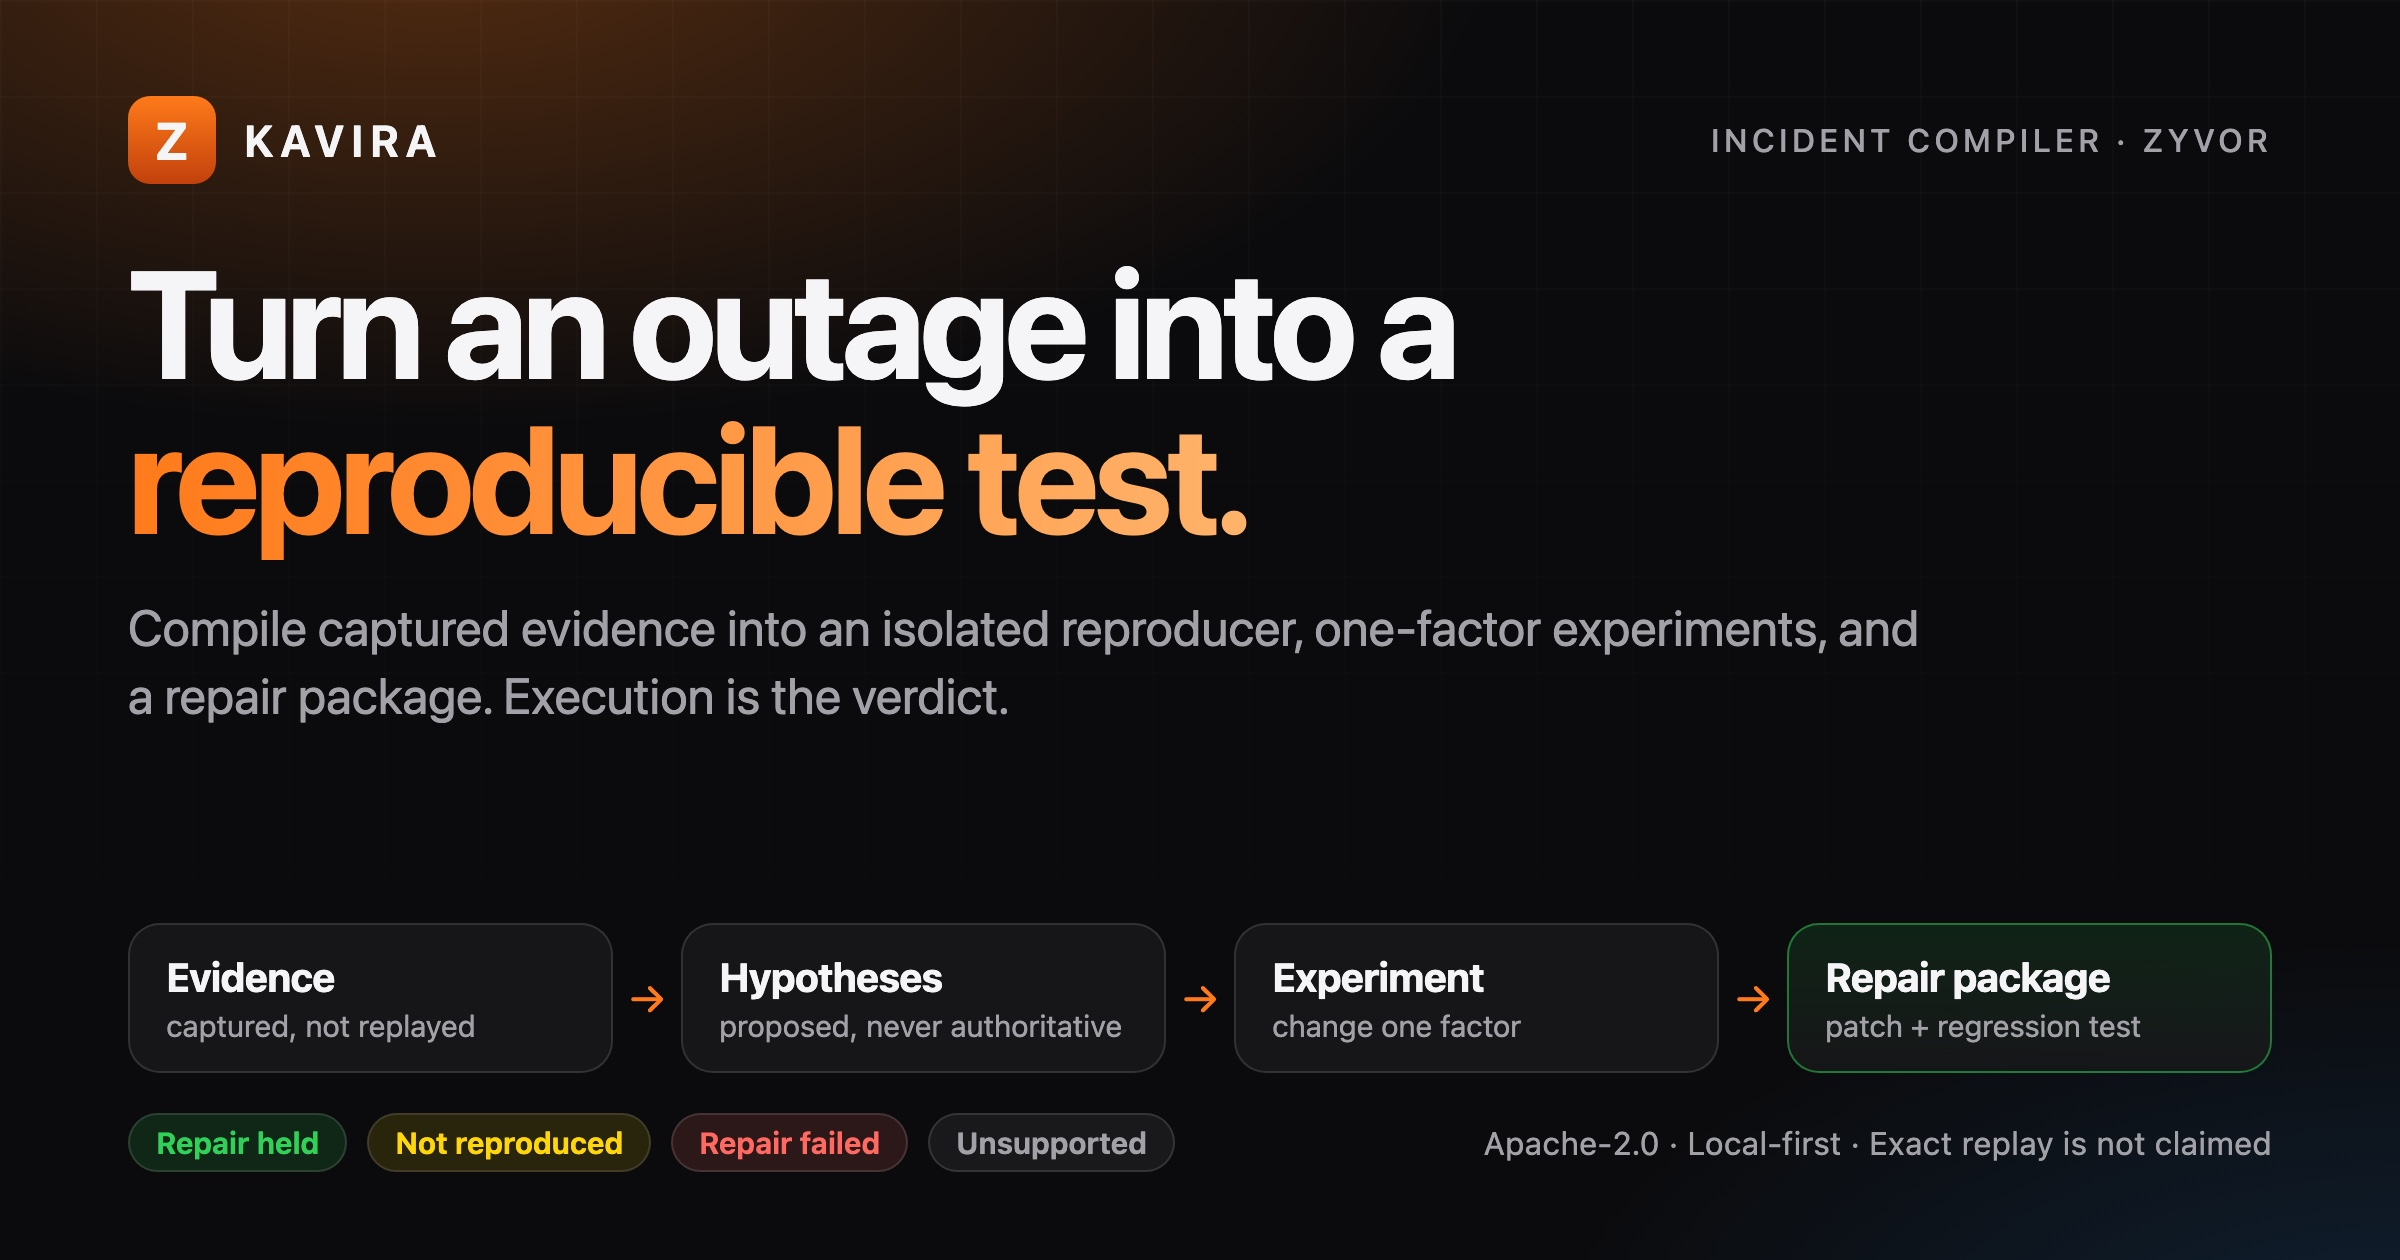
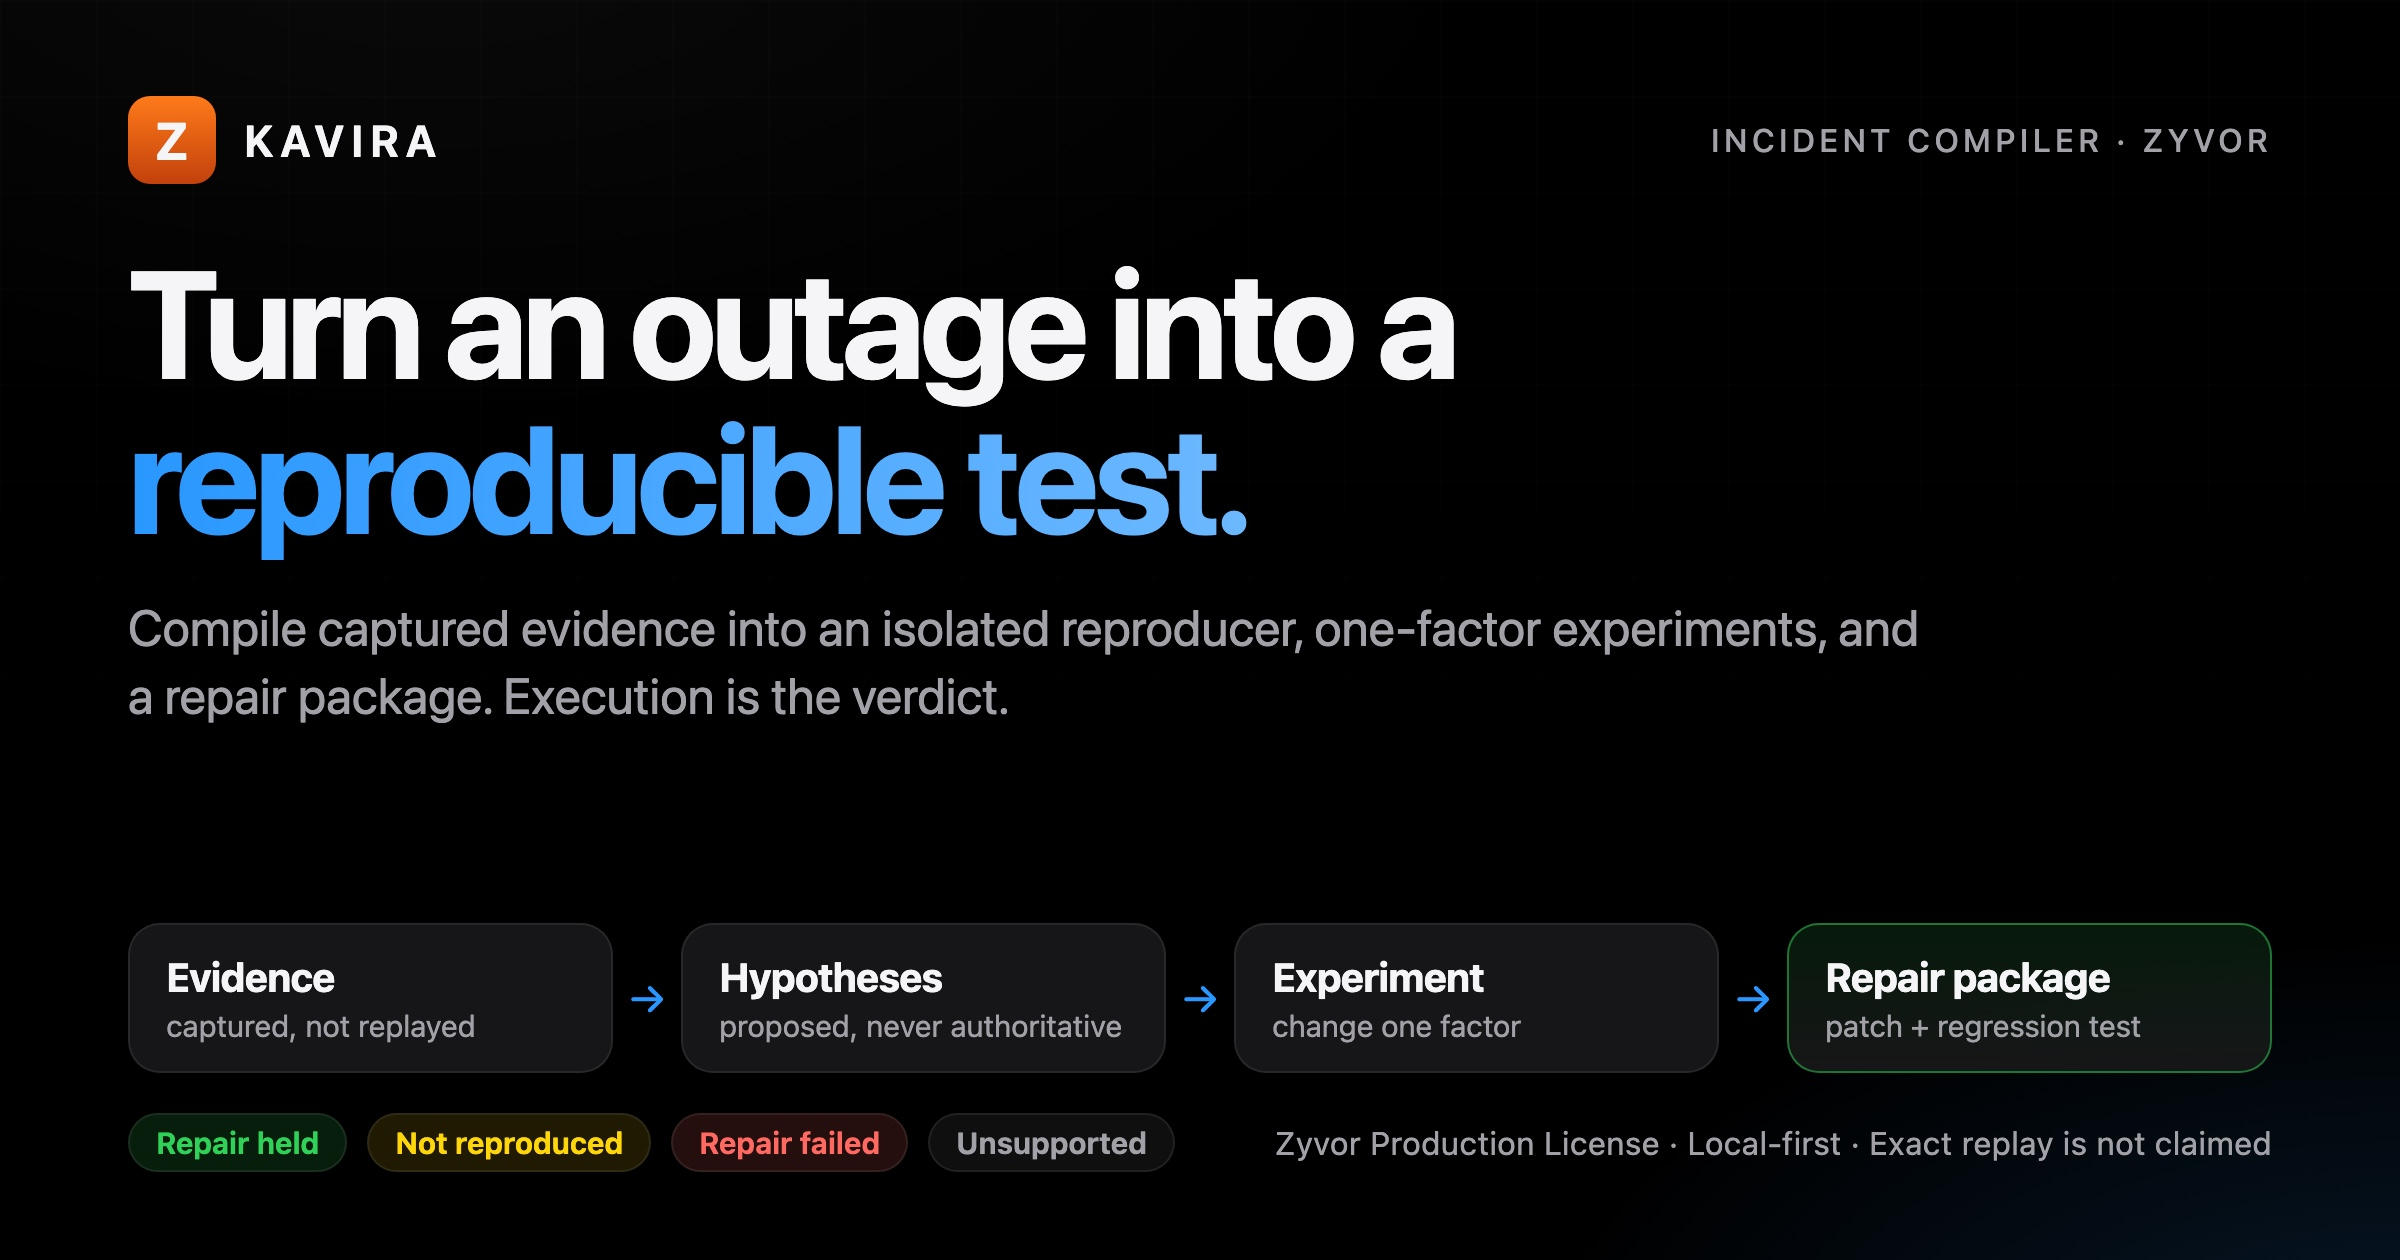
docs: remove community tier, apple-dark social cards

diff --git a/docs/social/kavira-hero-dark.html b/docs/social/kavira-hero-dark.html
@@ -1,22 +1,22 @@
 <!doctype html>
 <html lang="en"><head><meta charset="utf-8"><title>KAVIRA hero</title>
 <style>
-:root{--bg:#0b0b0d;--panel:#161618;--line:rgba(255,255,255,.12);--text:#f5f5f7;--dim:#a1a1a6;--orange:#ff7a1a;--deep:#c2410c;--green:#30d158;--amber:#ffd60a;--red:#ff6961;--blue:#2997ff}
+:root{--bg:#000;--panel:#161617;--line:rgba(255,255,255,.08);--text:#f5f5f7;--dim:#a1a1a6;--orange:#ff7a1a;--deep:#c2410c;--green:#30d158;--amber:#ffd60a;--red:#ff6961;--blue:#2997ff}
 *{box-sizing:border-box}html,body{margin:0}
 body{width:1200px;height:630px;overflow:hidden;position:relative;background:var(--bg);color:var(--text);font-family:-apple-system,BlinkMacSystemFont,"SF Pro Display","Helvetica Neue",Arial,sans-serif}
-.glow{position:absolute;inset:0;background:radial-gradient(760px 360px at 18% -6%,rgba(255,122,26,.30),transparent 70%),radial-gradient(620px 320px at 100% 110%,rgba(41,151,255,.16),transparent 70%)}
+.glow{position:absolute;inset:0;background:radial-gradient(760px 360px at 18% -6%,rgba(255,255,255,.04),transparent 70%),radial-gradient(620px 320px at 100% 110%,rgba(41,151,255,.16),transparent 70%)}
 .grid{position:absolute;inset:0;background-image:linear-gradient(var(--line) 1px,transparent 1px),linear-gradient(90deg,var(--line) 1px,transparent 1px);background-size:48px 48px;opacity:.18;mask-image:linear-gradient(180deg,#000,transparent 85%)}
 .wrap{position:absolute;left:64px;right:64px;top:48px;bottom:44px;display:flex;flex-direction:column}
 .brand{display:flex;align-items:center;gap:14px;font-size:22px;font-weight:650;letter-spacing:.16em}
 .mark{width:44px;height:44px;border-radius:11px;background:linear-gradient(180deg,var(--orange),var(--deep));display:grid;place-items:center;font-size:26px;font-weight:700;letter-spacing:0}
 .brand small{margin-left:auto;font-size:16px;letter-spacing:.14em;color:var(--dim);font-weight:500;text-transform:uppercase}
 h1{margin:30px 0 0;font-size:76px;line-height:1.02;letter-spacing:-.035em;font-weight:700;max-width:980px}
-h1 em{font-style:normal;background:linear-gradient(90deg,var(--orange),#ffb36b);-webkit-background-clip:text;color:transparent}
+h1 em{font-style:normal;background:linear-gradient(90deg,#2997ff,#6cb8ff);-webkit-background-clip:text;color:transparent}
 p.sub{margin:20px 0 0;font-size:25px;line-height:1.35;color:var(--dim);max-width:900px}
 .flow{margin-top:auto;display:flex;align-items:stretch;gap:0}
 .step{flex:1;background:var(--panel);border:1px solid var(--line);border-radius:16px;padding:14px 18px}
 .step b{display:block;font-size:20px;letter-spacing:-.01em}.step span{display:block;margin-top:4px;font-size:15px;color:var(--dim)}
-.arrow{width:34px;display:grid;place-items:center;color:var(--orange);font-size:22px}
+.arrow{width:34px;display:grid;place-items:center;color:var(--blue);font-size:22px}
 .step.hit{border-color:rgba(48,209,88,.5);background:linear-gradient(180deg,rgba(48,209,88,.12),var(--panel))}
 .row{display:flex;gap:10px;margin-top:20px;align-items:center}
 .pill{font-size:15px;font-weight:650;padding:5px 13px;border-radius:99px;border:1px solid var(--line)}

diff --git a/site/index.html b/site/index.html
@@ -160,7 +160,7 @@ docker run --rm -p 8080:8080 \
   </section>
   <section id="support">
     <h2>Support the project</h2>
-    <p class="sub">Non-production use is free under the Zyvor Production License v1.0; production use requires a commercial license (sales@zyvor.dev). If it helps you, you can donate any amount you like. A donation is voluntary and supports development and maintenance. It is not a purchase: it buys no support, SLA, features, priority or license, and it is not tax-deductible (Zyvor AI Labs Private Limited is a company, not a charity). Support contracts are separate: <a href="mailto:sales@zyvor.dev">sales@zyvor.dev</a>.</p>
+    <p class="sub">A commercial license is required to run it (sales@zyvor.dev). If it helps you, you can donate any amount you like. A donation is voluntary and supports development and maintenance. It is not a purchase: it buys no support, SLA, features, priority or license, and it is not tax-deductible (Zyvor AI Labs Private Limited is a company, not a charity). Support contracts are separate: <a href="mailto:sales@zyvor.dev">sales@zyvor.dev</a>.</p>
     <p class="cta" style="justify-content:flex-start"><a class="btn primary" href="https://rzp.io/rzp/utwdYh3">Donate any amount</a></p>
     <p class="sub">The software is free. Paid support is the one Zyvor Support meter, per node per year and never stacked per product: Supported INR 59,999 incl. 18% GST in India / USD 600 excl. tax elsewhere (minimum 5 nodes: INR 299,995 / USD 3,000); Supported Plus INR 119,999 / USD 1,200 (minimum INR 599,995 / USD 6,000). Prices: INR incl. 18% GST in India; US dollars excl. tax elsewhere (VAT, GST or sales tax added where applicable). Pay online by UPI, card or netbanking where a buy page exists; international cards work (charged in rupees); or request a US-dollar invoice by bank transfer. Buy / get a quote: <a href="https://zyvor.dev/buy">zyvor.dev/buy</a>. Custom pricing: contact <a href="mailto:sales@zyvor.dev">sales@zyvor.dev</a>.</p>
   </section>

diff --git a/docs/social/kavira-social-card.html b/docs/social/kavira-social-card.html
@@ -1,15 +1,15 @@
 <!doctype html>
 <html lang="en"><head><meta charset="utf-8"><title>KAVIRA share card</title>
 <style>
-:root{--bg:#0b0b0d;--panel:#161618;--line:rgba(255,255,255,.12);--text:#f5f5f7;--dim:#a1a1a6;--orange:#ff7a1a;--deep:#c2410c;--green:#30d158}
+:root{--bg:#000;--panel:#161617;--line:rgba(255,255,255,.08);--text:#f5f5f7;--dim:#a1a1a6;--orange:#ff7a1a;--deep:#c2410c;--green:#30d158}
 *{box-sizing:border-box}html,body{margin:0}
 body{width:1600px;height:900px;overflow:hidden;position:relative;background:var(--bg);color:var(--text);font-family:-apple-system,BlinkMacSystemFont,"SF Pro Display","Helvetica Neue",Arial,sans-serif}
-.glow{position:absolute;inset:0;background:radial-gradient(900px 460px at 50% -10%,rgba(255,122,26,.32),transparent 70%)}
+.glow{position:absolute;inset:0;background:radial-gradient(900px 460px at 50% -10%,rgba(255,255,255,.04),transparent 70%)}
 .wrap{position:absolute;inset:80px 96px;display:flex;flex-direction:column;justify-content:center;align-items:center;text-align:center}
 .mark{width:96px;height:96px;border-radius:24px;background:linear-gradient(180deg,var(--orange),var(--deep));display:grid;place-items:center;font-size:58px;font-weight:700}
 .name{margin-top:28px;font-size:30px;letter-spacing:.3em;font-weight:650;color:var(--dim)}
 h1{margin:22px 0 0;font-size:112px;line-height:1.02;letter-spacing:-.04em;max-width:1280px}
-h1 em{font-style:normal;background:linear-gradient(90deg,var(--orange),#ffb36b);-webkit-background-clip:text;color:transparent}
+h1 em{font-style:normal;background:linear-gradient(90deg,#2997ff,#6cb8ff);-webkit-background-clip:text;color:transparent}
 p{margin:30px 0 0;font-size:36px;line-height:1.35;color:var(--dim);max-width:1100px}
 .chips{display:flex;gap:14px;margin-top:44px}.chips span{font-size:24px;padding:9px 22px;border-radius:99px;border:1px solid var(--line);background:var(--panel)}
 .chips .hit{color:var(--green);border-color:rgba(48,209,88,.5)}

diff --git a/README.md b/README.md
@@ -195,7 +195,7 @@ See [deploy/README.md](deploy/README.md) for the release image, `docker compose`
 
 ## Support
 
-Non-production use is free under the Zyvor Production License v1.0; production use requires a commercial license (sales@zyvor.dev). If it helps you, you can donate any amount you like: <https://rzp.io/rzp/utwdYh3>. A donation is voluntary and supports development and maintenance. It is not a purchase: it buys no support, SLA, features, priority or license, and it is not tax-deductible (Zyvor AI Labs Private Limited is a company, not a charity). Support contracts are separate. The software is free. Paid support is the one Zyvor Support meter, per node per year and never stacked per product: Supported INR 59,999 incl. 18% GST in India / USD 600 excl. tax elsewhere (minimum 5 nodes: INR 299,995 / USD 3,000); Supported Plus INR 119,999 / USD 1,200 (minimum INR 599,995 / USD 6,000). Prices: INR incl. 18% GST in India; US dollars excl. tax elsewhere (VAT, GST or sales tax added where applicable). Pay online by UPI, card or netbanking where a buy page exists; international cards work (charged in rupees); or request a US-dollar invoice by bank transfer. Buy / get a quote: https://zyvor.dev/buy. Custom pricing: contact sales@zyvor.dev.
+A commercial license is required to run it (sales@zyvor.dev). If it helps you, you can donate any amount you like: <https://rzp.io/rzp/utwdYh3>. A donation is voluntary and supports development and maintenance. It is not a purchase: it buys no support, SLA, features, priority or license, and it is not tax-deductible (Zyvor AI Labs Private Limited is a company, not a charity). Support contracts are separate. The software is free. Paid support is the one Zyvor Support meter, per node per year and never stacked per product: Supported INR 59,999 incl. 18% GST in India / USD 600 excl. tax elsewhere (minimum 5 nodes: INR 299,995 / USD 3,000); Supported Plus INR 119,999 / USD 1,200 (minimum INR 599,995 / USD 6,000). Prices: INR incl. 18% GST in India; US dollars excl. tax elsewhere (VAT, GST or sales tax added where applicable). Pay online by UPI, card or netbanking where a buy page exists; international cards work (charged in rupees); or request a US-dollar invoice by bank transfer. Buy / get a quote: https://zyvor.dev/buy. Custom pricing: contact sales@zyvor.dev.
 
 ## License
 
